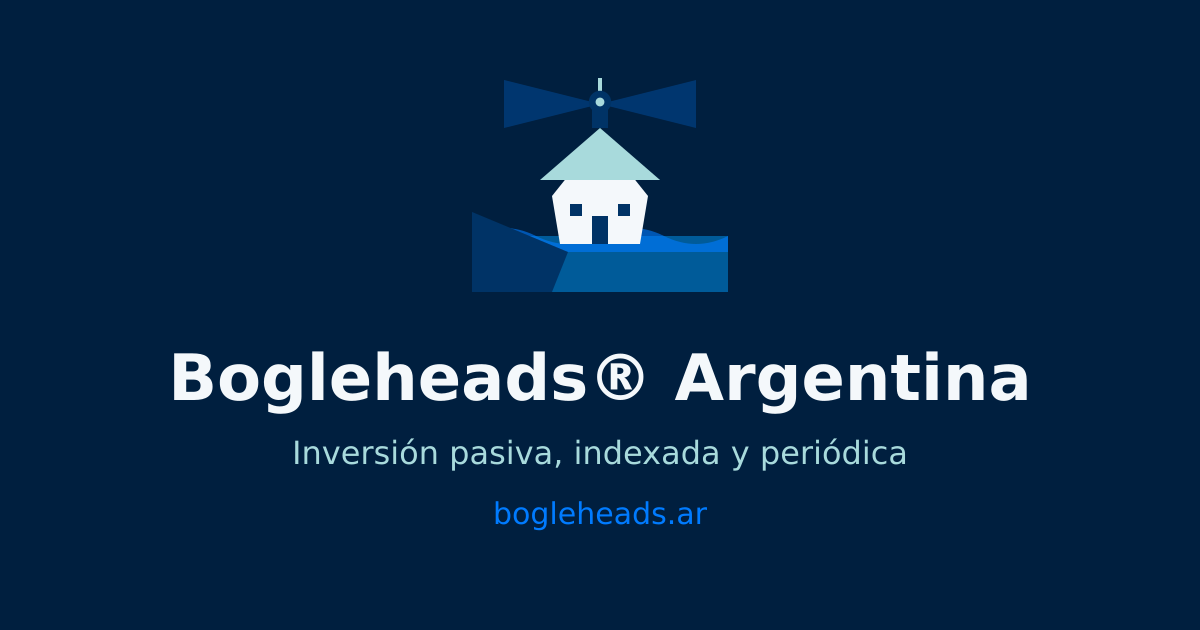
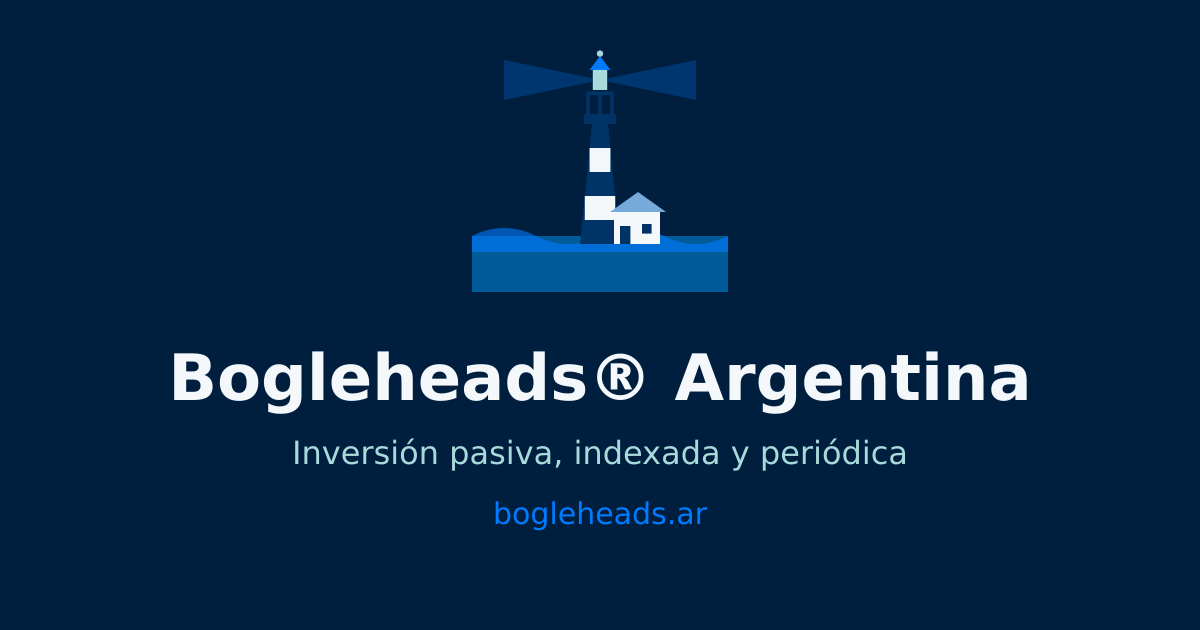
feat: migrate brand to faro año nuevo, flag stripe, tagline emoji

Changed region(s): [[0.37, 0.0905, 0.5858, 0.4825]]

diff --git a/src/styles/global.css b/src/styles/global.css
@@ -10,6 +10,7 @@
     --accent: #005b99;
     --bright: #007bff;
     --bright-hover: #0069d9;
+    --celeste: #75aadb;
     --pale: #a8dadc;
     --accent-soft: #dcebec;
     --link: #005b99;
@@ -131,7 +132,7 @@ article,
 .site-nav a[aria-current="page"] {
     color: #fff;
     font-weight: 700;
-    box-shadow: inset 0 -2px 0 var(--bright);
+    box-shadow: inset 0 -2px 0 var(--celeste);
 }
 
 @media (max-width: 44rem) {
@@ -191,6 +192,8 @@ a {
 .hero img {
     max-width: 220px;
     height: auto;
+    display: block;
+    margin: 0 auto;
 }
 
 .hero h1 {
@@ -382,8 +385,17 @@ a {
 
 /* Footer */
 
+.flag-stripe {
+    height: 9px;
+    background: linear-gradient(
+        to bottom,
+        var(--celeste) 0 3px,
+        #fff 3px 6px,
+        var(--celeste) 6px 9px
+    );
+}
+
 .site-footer {
-    border-top: 3px solid var(--bright);
     background: var(--deep);
     color: #c9dbe4;
     font-size: 0.88rem;

diff --git a/AGENTS.md b/AGENTS.md
@@ -20,7 +20,8 @@ just build  # astro build
 - No per-article edit links or disclaimers. Keep articles clean: GitHub is
   referenced only in the footer and on Acerca.
 - Palette (navy): `#001F3F` `#003366` `#005B99` `#007BFF` `#A8DADC`.
-- Brand assets: `public/marca/`. Book covers (local files only, no
+- Brand assets: `public/marca/`. Brand mark is the Faro Año Nuevo
+  (Isla Observatorio) lighthouse. Book covers (local files only, no
   hotlinking): `public/libros/`, referenced from the bibliography page.
 - Zero client-side JS in the output (build-to-last). Charts/figures must be
   static SVG or local images — no chart libraries, no CDNs.

diff --git a/README.md b/README.md
@@ -1,4 +1,4 @@
-# <img src="public/favicon.svg" width="24" height="24" alt="Faro del Fin del Mundo" /> bogleheads.ar
+# <img src="public/favicon.svg" width="24" height="24" alt="Faro Año Nuevo" /> bogleheads.ar
 
 Unofficial Argentine community site about the Bogleheads® investment
 philosophy: passive, indexed, periodic investing, with local context

diff --git a/src/content/wiki/importancia-de-ahorrar-temprano.md b/src/content/wiki/importancia-de-ahorrar-temprano.md
@@ -1,6 +1,6 @@
 ---
 title: "La importancia de empezar temprano"
-description: "El interés compuesto premia al que empieza antes: ejemplos y una simulación."
+description: "El interés compuesto premia al que empieza antes: por qué el tiempo pesa más que el monto."
 category: "Teoría"
 date: 2026-10-10
 ---
